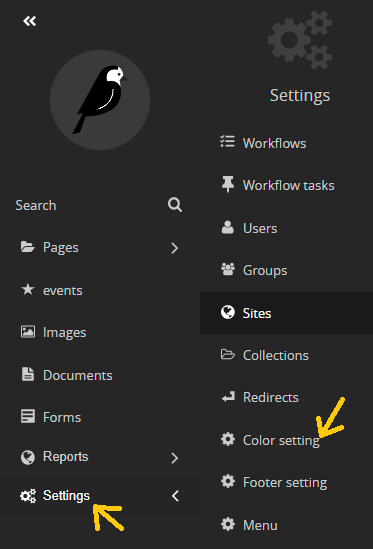
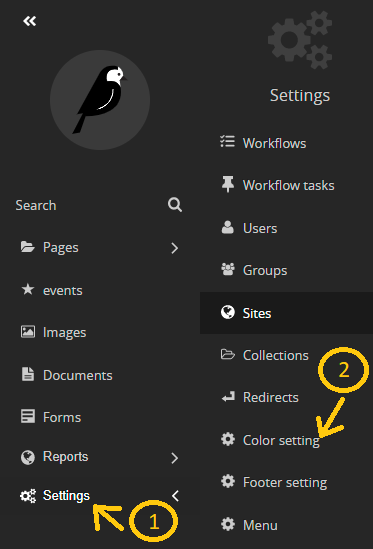
update images add more explainations

Changed region(s): [[0.3244, 0.898, 0.5013, 0.9909], [0.8552, 0.6193, 1.0, 0.7432]]

diff --git a/documents/block_types.md b/documents/block_types.md
@@ -99,26 +99,26 @@ this component contain a big picture in the left side and a text in the left sid
 
 ## Cards 
 
-1- in the title of cards section put the title of the section 
+1- in the title of cards section put the title of the section.
 
-2- inside the card element fill the following  
+2- inside the card element fill the following:
 
-    - in the image field click on choose image and you can either upload image from your device or choose from the existing images (this will be the card image)
+    - in the image field click on choose image and you can either upload image from your device or choose from the existing images (this will be the card image).
 
-    - in the title field put the title of the card 
+    - in the title field put the title of the card itself, mainly the name of the person (if you use it as Our Staff section).
 
-    - in the text field put the description of the card 
+    - in the text field put the description of the card, mainly a small brief about that person (if you use it as Our Staff section).
 
-    - in call to action field you can either choose a page from Button page or add a link to Button URL
+    - in call to action field you can either choose a page from Button page or add a link to Button URL, mainly a link for the linkedin account or any social media accounts (if you use it as Our Staff section).
 
-    - in te button text you can add the text that you want your link to be embedded in
+    - in te button text you can add the text that you want your link to be embedded in.
  
 notes : 
 
 - to add more cards you can click in the ( + ) sympole above or below the current 
 card 
 
-- also you can order then by the ( ^ ) and or the down arrow 
+- also you can order them by the ( ^ ) and or the down arrow 
 
 
 ## Youtube Video Block 
